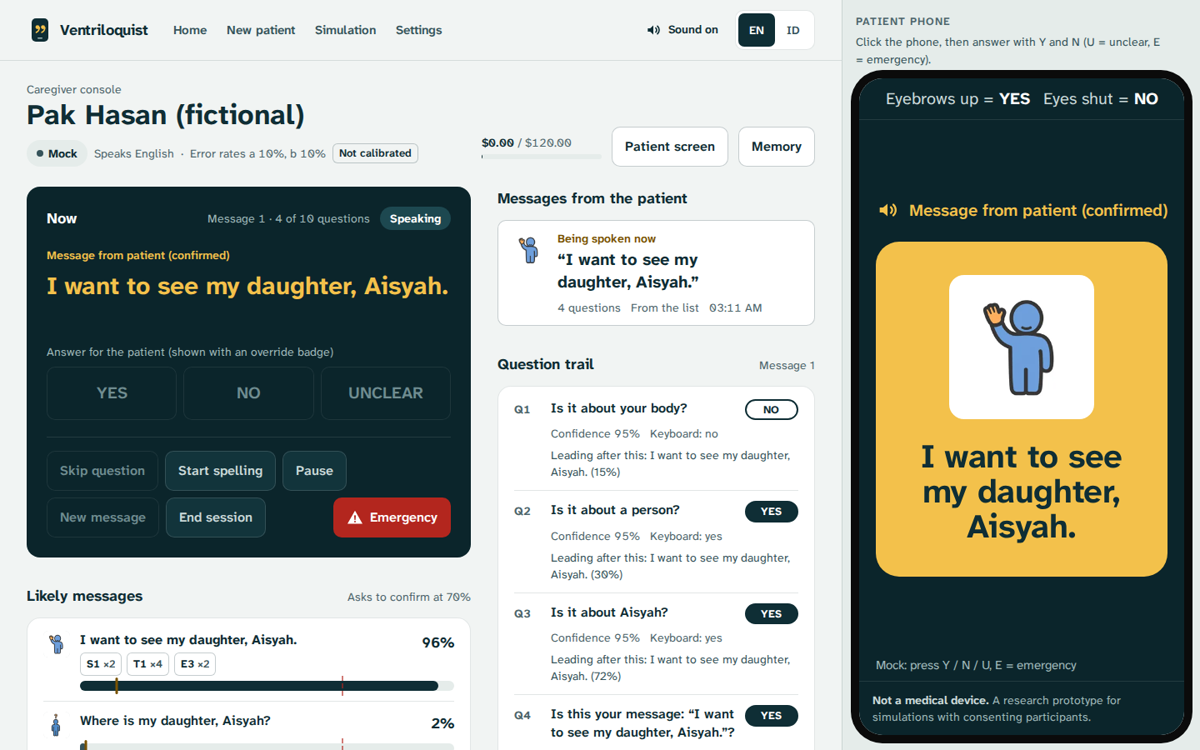
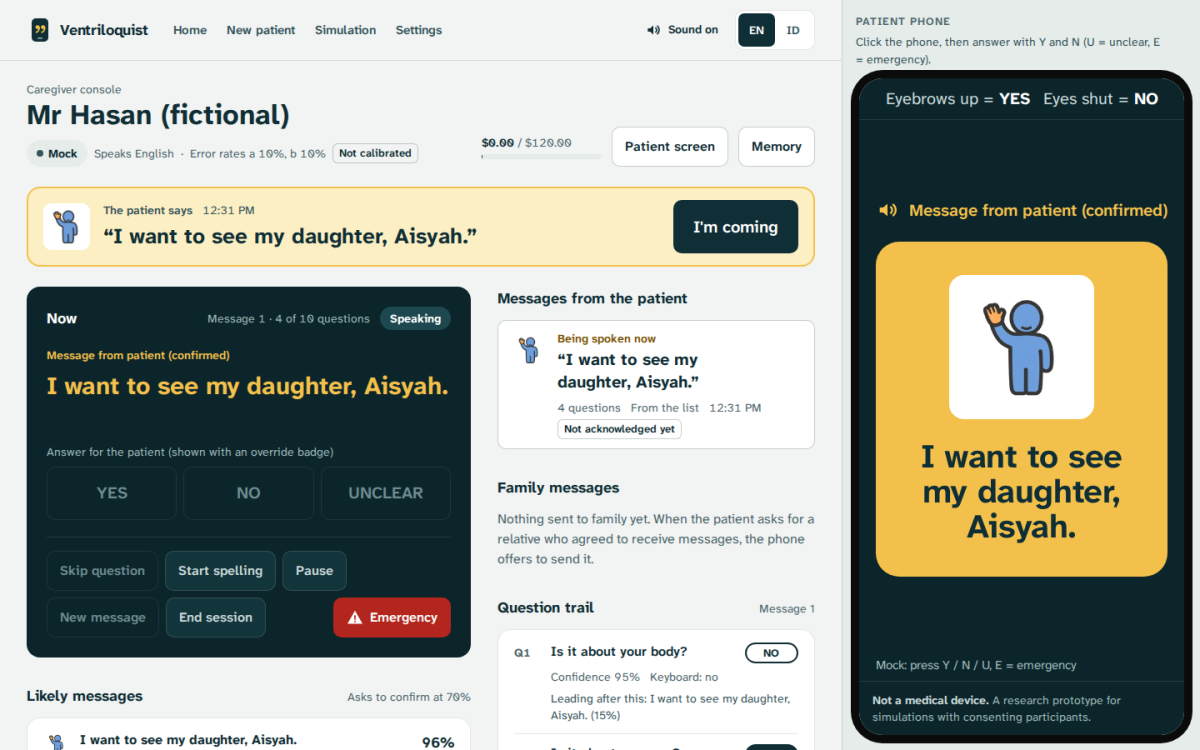
feat(video): a privacy-mode scene, and new live takes with Mr Hasan on screen
- Calibration and the session were recorded again with the renamed patient, on a local server
  running the deployed build with the same keys (VENT_BASE in record-app.mjs).
- A new take records a privacy-mode session: the console's badge opened on "Muse Spark Open on
  Baseten", and answers read by Muse Spark Open.
- The film's stack slot (2:21-2:43) now holds a shorter stack card and N8, then 11 s of privacy
  footage with a new line, N8b. Every other scene and the score keep their times.
- `say` in cues.json gives the voice a spelling ("Base-ten") while the captions keep the name.
- Shot offsets re-measured on the new takes: the screens trail the harness log about 1.7 s less
  than on fly.io, and the alarm came 13 s after the signal. The first session shot starts after
  the pairing QR card, which showed the local network address.
- The hosted demo's README screenshot retaken with the new name.

diff --git a/docs/DEMO_SCRIPT.md b/docs/DEMO_SCRIPT.md
@@ -22,8 +22,10 @@ five seconds and again on the end card:
 ## As built
 
 The film is built and rendered by [`video/`](../video/README.md): narration and sound from
-ElevenLabs, story scenes from Higgsfield, app footage from live takes on https://ventriloquist.fly.dev,
+ElevenLabs, story scenes from Higgsfield, app footage from live takes of the deployed build,
 assembled with HyperFrames. Timings below are the plan; `video/edit/build.mjs` holds the exact cut.
+The 2026-10-29 takes ran on a local server with the same build and the same Meta and Baseten keys
+(`VENT_BASE` in `video/record-app.mjs`), since the fly.io passcode stays with Rifqi.
 
 ## Three kinds of footage
 
@@ -39,7 +41,7 @@ session beat is sped up and says so on screen.
 
 ## Timeline
 
-Narration lines (N1 to N9) are what ElevenLabs reads. They also live in
+Narration lines (N1 to N9, with N8b) are what ElevenLabs reads. They also live in
 [`video/cues.json`](../video/cues.json), which the audio script reads; keep the two the same. Words
 in *italics* are the phone speaking. The app speaks with the device's built-in text-to-speech,
 which a screen recording can't capture, so in the video an ElevenLabs voice through a small-speaker
@@ -53,14 +55,14 @@ filter stands in for it (lines P1 to P7 in `video/cues.json`).
 | 1:05-1:35 | Phone: *"Shall I send this to Aisyah on WhatsApp?"* **GEN** eyebrows rise. **GEN** the room at night: nobody there, only the phone lit on the rail. **APP** the console at the nurses' station: the yellow "The patient says" card with its chime, and the approval card "Send to Aisyah (daughter) on WhatsApp? The patient said yes." Caption "1 minute later": the phone repeats the message, "said 2 times" on the card. **GEN** a nurse at the station looks up. **APP** she taps "I'm coming", then Send (approving the relay also counts as seeing the message). Phone: *"A caregiver has seen your message and is coming."* | **N4** But the room is empty, and he can't press a call bell. So his words chime at the nurses' station and stay there until someone taps "I'm coming". If nobody does, the phone says them again and the alert gets louder. The WhatsApp message to Aisyah waits for a nurse's approval too. | Music thins to sustained strings. SFX: night ward hum; the app's own chime (rendered from the app, see Sound). |
 | 1:35-2:00 | **APP** relay card: Sent, Delivered, Read. **GEN** Aisyah at home; her phone buzzes; she reads (screen not visible), exhales, types. **APP** reply arrives; the trail shows Muse Spark's reading: not about his health, safe to read aloud. Phone reads her reply. **GEN** Mr Hasan's face relaxes. Caption: "No reply? It asks him about his son next." | **N5** Now an agent takes over. It watches the message reach Aisyah's phone and get read. When she answers, Muse Spark reads the reply first. Anything about his health waits for a nurse. This one doesn't, so he hears it. | SFX: phone buzz. Phone voice. Music: warm, rising. |
 | 2:00-2:15 | **APP** a second patient's spelling run in mock mode with the simulated patient, sped up and labelled "Simulated answers": *"Is this your message: I'm cold?"* no. *"Do you want to spell it?"* yes. Letter groups; K, U, C. The console flips EN to ID once: *"Apakah kata Bapak KUCING?"* yes. *"Who is feeding my cat?"* yes. Caption: "Simulated answers · sped up 13×". | **N6** Wrong guesses happen. He says no and spells it: three letters, and the completer finds "kucing", cat. The message: who is feeding my cat? | Music: light, playful. |
-| 2:15-2:25 | **GEN** eyebrows up three times, fast. **APP** the console turns red: "The patient needs help now." A note gives the real delay: "Alarm 15 s after the signal". A nurse taps "Acknowledge, I'm going". | **N7** Three quick yeses, at any moment, raise the alarm on every screen. | Music cuts. The app's own alarm (rendered from the app). |
-| 2:25-2:45 | **CARD** the models, one line each as they're named: Muse Spark (calibration, room reader, questions, blind judge, spelling, reply reader), SAM 3.1, Muse Voice Transcribe, Muse Wonder, Muse Image (pictograms), WhatsApp Cloud API. **APP** two seconds of the memory page: a proposed fact with its source, approved by a nurse. **CARD** "Generated test clips: 11 of 13 answers read, 0 wrong, 2 asked again." and the simulation chart from the README. | **N8** Under the hood it's Meta's stack: Muse Spark from calibration to the blind judge, SAM 3.1, Voice Transcribe, Muse Wonder for a memory nurses approve, and the WhatsApp Cloud API. On generated test clips it read eleven of thirteen answers, none wrong, and asked again on the other two. | Music: steady, clean pulse. |
+| 2:15-2:25 | **GEN** eyebrows up three times, fast. **APP** the console turns red: "The patient needs help now." A note gives the real delay: "Alarm 13 s after the signal" (measured on the take). A nurse taps "Acknowledge, I'm going". | **N7** Three quick yeses, at any moment, raise the alarm on every screen. | Music cuts. The app's own alarm (rendered from the app). |
+| 2:21-2:32 | **CARD** the models, one line each as they're named: Muse Spark (calibration, room reader, questions, blind judge, spelling, reply reader), SAM 3.1, Muse Voice Transcribe, Muse Wonder, Muse Image (pictograms), WhatsApp Cloud API. **CARD** "11 of 13 answers read on generated test clips of Mr Hasan, on Meta's API; 0 wrong, 2 asked again" and the simulation result. | **N8** Under the hood it's Meta's stack: Muse Spark from calibration to the blind judge, SAM 3.1, Voice Transcribe, and Muse Wonder for memory. | Music: steady, clean pulse. |
+| 2:32-2:43 | **APP** console and phone in privacy mode: the green "Privacy" badge opened to "Muse Spark Open on Baseten"; three answers, the trail reading "Muse Spark Open: yes 9x%". Notes: "Muse Spark Open on Baseten · sped up", then "Same test clips: 11 of 13 right, 2 resting clips read as NO". | **N8b** Privacy mode runs the same pipeline on Muse Spark Open, the open-weight model, on Baseten. Patient video never reaches a closed API. | Music continues. |
 | 2:45-3:00 | **GEN** four o'clock: Aisyah at the bedside, holding his hand; he raises his eyebrows. **CARD** end card: "Try it: ventriloquist.fly.dev", "github.com/0xNoramiya/ventriloquist", and the label. | **N9** Built in Indonesia, for patients who are awake and unheard. The patient does the talking. The phone just moves its lips. | Music: the piano theme returns and resolves. |
 
-**Privacy mode.** Only if privacy mode has run live on Muse Spark Open before recording (needs
-`BASETEN_API_KEY`), add to N8: "Privacy mode runs the same steps on Muse Spark Open, an open-weight
-model." and show the "What leaves this device" panel for two seconds. Otherwise leave it out: the
-video claims nothing that hasn't run.
+**Privacy mode.** It ran live on Muse Spark Open on 2026-10-29 (`docs/DETECTOR_DATA_GENERATED.md`),
+so the 2:32 beat shows a real privacy-mode session. The voice reads "Baseten" from the `say`
+spelling in `video/cues.json` ("Base-ten"); the captions keep the name.
 
 **WhatsApp.** If the WhatsApp Business account is connected by recording day, the 1:35 beat shows a
 real phone receiving the template (a consenting person's phone, number masked). If not, the APP
@@ -93,6 +95,7 @@ and the nurse are new fictional people, made once as reference stills and reused
 | A5 | Console + phone | Spelling KUCING, with the EN to ID toggle |
 | A6 | Console | Emergency alarm and acknowledgement |
 | A7 | Memory page | One fact with provenance, approved |
+| A8 | Console + phone, privacy mode | The "Privacy" badge opened, three answers read by Muse Spark Open on Baseten |
 
 ## Sound
 

diff --git a/HACKATHON_LOG.md b/HACKATHON_LOG.md
@@ -32,3 +32,4 @@ Every line of code in this repository was written inside the hackathon window. T
 | 2026-10-27 16:20 | 3 | UI polish pass. Landing page leads with a photo of the fictional patient and gains a "When nobody is in the room" section; calibration shows how to mount the phone and lets the nurse pick the YES/NO movements from photo cards that play each movement (still frames under reduced motion). Generated through Higgsfield (GPT Image 2.5 photos, stills from the Seedance clips), WebP with fixed dimensions. Press feedback, neutral focus rings, clip-path probability bars, enter animations under 300 ms. Confirmation prompts on the phone put the quoted message on its own line. Found while checking: new i18n keys had silently overwritten older ones (a test now rejects duplicate keys), and every simulated demo used seed 0, which at 5% noise always flipped answers 3 and 4, so the daughter demo failed every time; each session now draws its own seed (37 of 40 seeds confirm). |
 | 2026-10-27 18:20 | 7 | Demo video, 3:00, built from scripts in `video/`. App footage is live takes on fly.io: Playwright feeds the phone's camera the generated Pak Hasan clips, switching clip when the app starts recording an answer, so SAM 3.1 and the blind judge read all six answers live (confidence 0.90 to 0.96) and the emergency signal raised the alarm. Story scenes are Higgsfield generations of fictional people (GPT Image 2.5 stills, Seedance 2.5 clips, about 460 credits); narration, a stand-in for the phone's built-in voice, the score and room sounds are ElevenLabs; the app's chime and alarm are rendered from its own code; HyperFrames assembles it. Sped-up, simulated and time-skipped footage is labelled on screen. Filming caught a real bug: a live calibration filed both movements under "eyebrows", and the phone's legend read "Eyebrows up = YES, Eyebrows up = NO"; fixed, with a guard that never gives both answers one name. |
 | 2026-10-29 03:42 | 6 | Privacy mode live on Baseten (Muse Spark Open, `meta-models/muse-spark-open-1026`). Probes: text, image, video and audio all answer (1.3-5.4 s). The first privacy eval on the generated clips got 1 of 13: Muse Spark Open takes 2 videos per request, not 5, so calibration failed, and the adapter dropped the clip labels on videos. Without SAM the judge saw the whole frame (YES 0 of 3), so calibration now finds the crop on the device from where the YES and NO clips move. Numbered test frames showed Baseten samples video at 2 fps with no setting, which merged three eyebrow raises into one; a judge-only sweep (26 judgments per setting) picked half-speed clips: 25 of 26, emergency 4 of 4. Full pipeline: 11 of 13, two resting clips read as NO; median 7.5 s per answer. Baseten spend about $0.90 (280 calls). |
+| 2026-10-29 04:32 | 7 | Demo video v3. The demo patient is now "Mr Hasan (fictional)" in the app (Indonesian keeps "Pak"), deployed; README screenshots retaken. The question trail names the judge "Muse Spark Open" when Baseten or Modal served it. Live takes re-recorded (calibration, session) on a local server running the deployed build with the same keys, plus a new privacy-mode take: Muse Spark Open on Baseten read the first two answers right (NO 96%, YES 88%) and missed the third, a small raise (asked again). The film gains an 11 s privacy scene inside the old stack slot (N8 shortened, new N8b), so every other scene and the score keep their times. Screen lags re-measured on the new takes: about 1.7 s less than on fly.io; the alarm came 13 s after the signal. |

diff --git a/video/README.md b/video/README.md
@@ -6,10 +6,11 @@ app's own models are all Meta's (see the main README). The script and timeline a
 
 Three kinds of material:
 
-- **App footage**: screen recordings of the running app on fly.io. In live mode the camera is the
-  generated Mr Hasan gesture clips from `data/labeled_generated` (the detector eval set), so SAM 3.1
-  and the blind Muse Spark judge really read every answer. The spelling beat is a mock run with the
-  simulated patient, and says so on screen.
+- **App footage**: screen recordings of the running app, on fly.io or on a local server running the
+  same build (`VENT_BASE=http://127.0.0.1:8010`). In live mode the camera is the generated Mr Hasan
+  gesture clips from `data/labeled_generated` (the detector eval set), so SAM 3.1 and the blind
+  Muse Spark judge really read every answer; in the privacy take Muse Spark Open on Baseten reads
+  them. The spelling beat is a mock run with the simulated patient, and says so on screen.
 - **Story scenes**: Higgsfield (GPT Image 2.5 stills, Seedance 2.5 image-to-video) of the same
   fictional patient, nurse and daughter. They never show the app doing anything.
 - **Sound**: ElevenLabs narration, a second voice standing in for the phone's built-in speech, an
@@ -28,6 +29,7 @@ node --env-file=../.env.local caption-timings.mjs   # word timings for the capti
 # app footage: live takes need the fly.io passcode (never commit it)
 VENT_PASSCODE=... node record-app.mjs calibrate
 VENT_PASSCODE=... node record-app.mjs session
+VENT_PASSCODE=... node record-app.mjs privacy   # needs BASETEN_API_KEY on the server
 node record-app.mjs spelling           # mock mode, simulated patient
 
 cd edit
@@ -43,7 +45,7 @@ The story clips and stills (`media/gen/`) came from Higgsfield; their prompts ar
 
 | File | What it does |
 |---|---|
-| `cues.json` | Narration lines (N1 to N9), the phone's lines (P0 to P8), the score's sections, the effects |
+| `cues.json` | Narration lines (N1 to N9, N8b), the phone's lines (P0 to P8), the score's sections, the effects; `say` is a spelling for the voice only |
 | `generate-audio.mjs` | Makes them with ElevenLabs; keeps files that exist unless `--force` |
 | `caption-timings.mjs` | ElevenLabs speech-to-text word timings, with the script's spelling kept |
 | `render-app-sounds.mjs` | The app's chime and alarm as WAV, from the same oscillator calls as the app |
